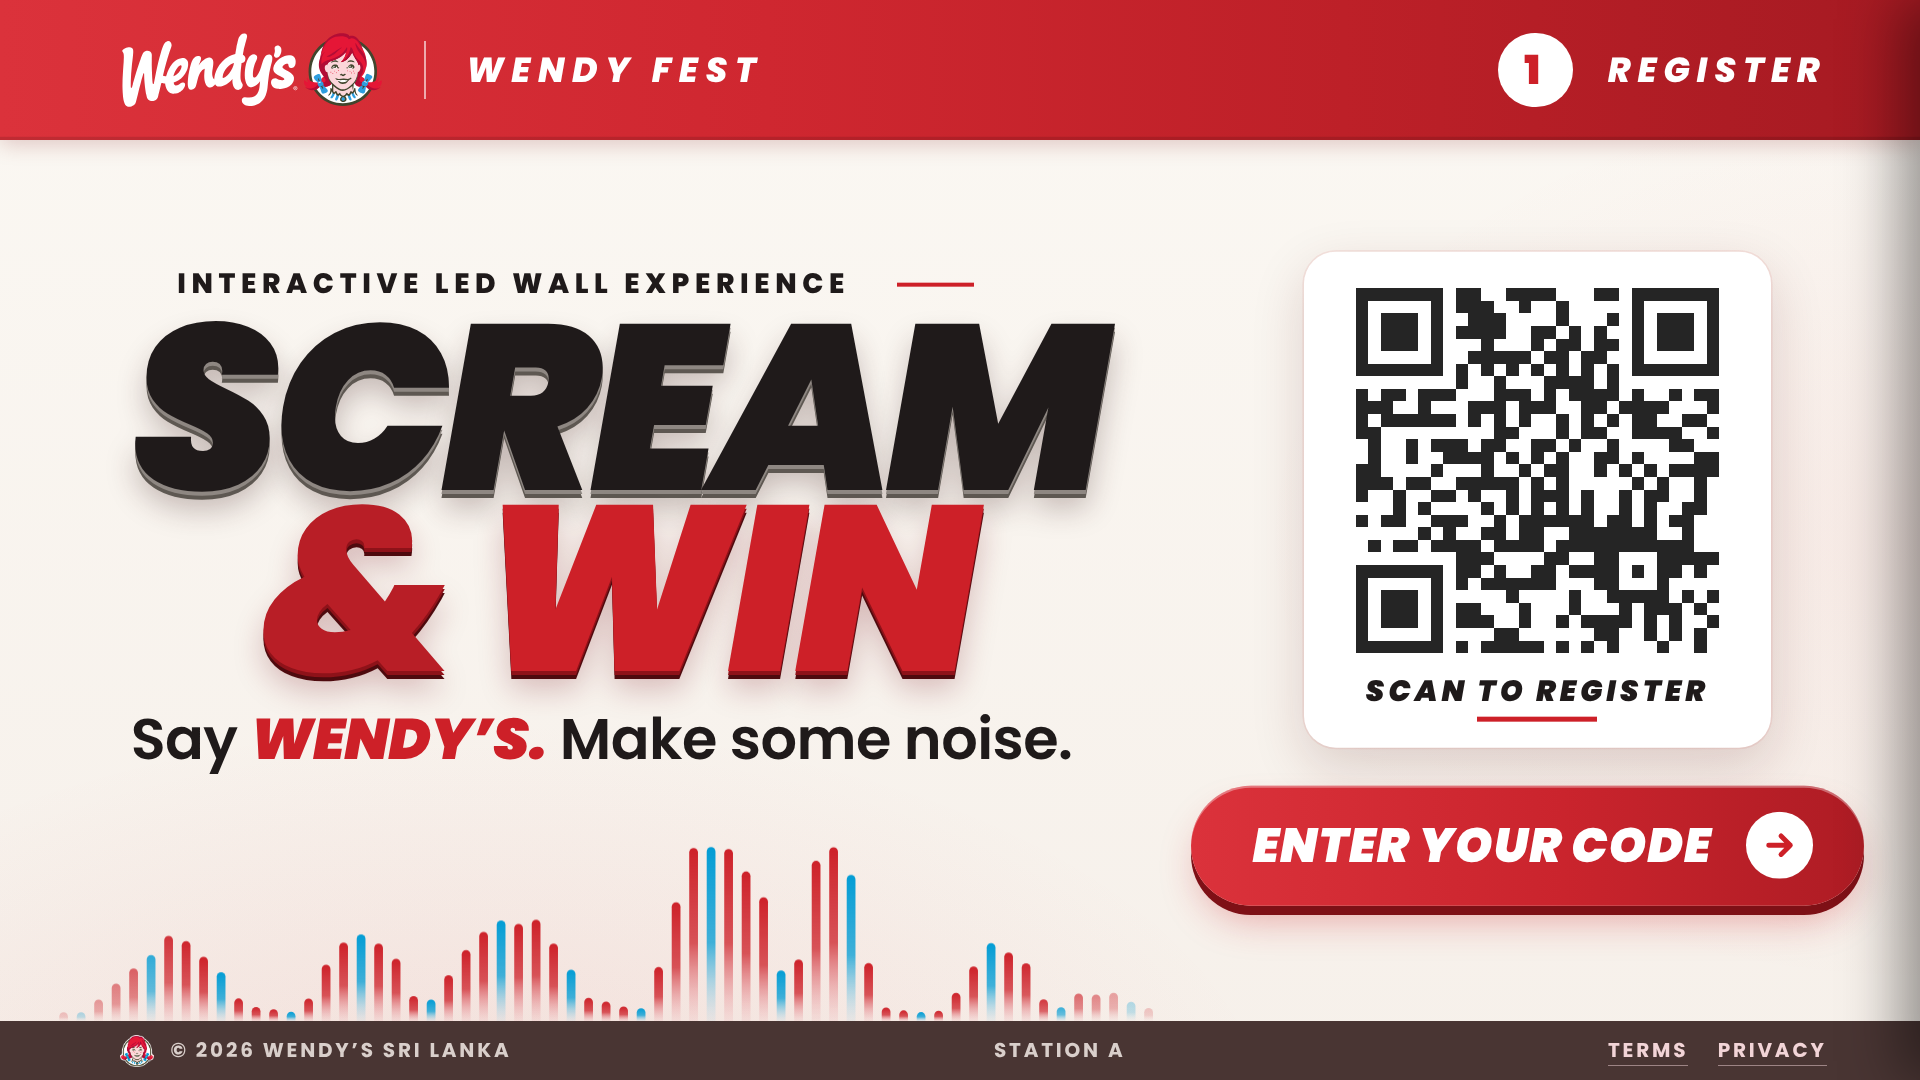
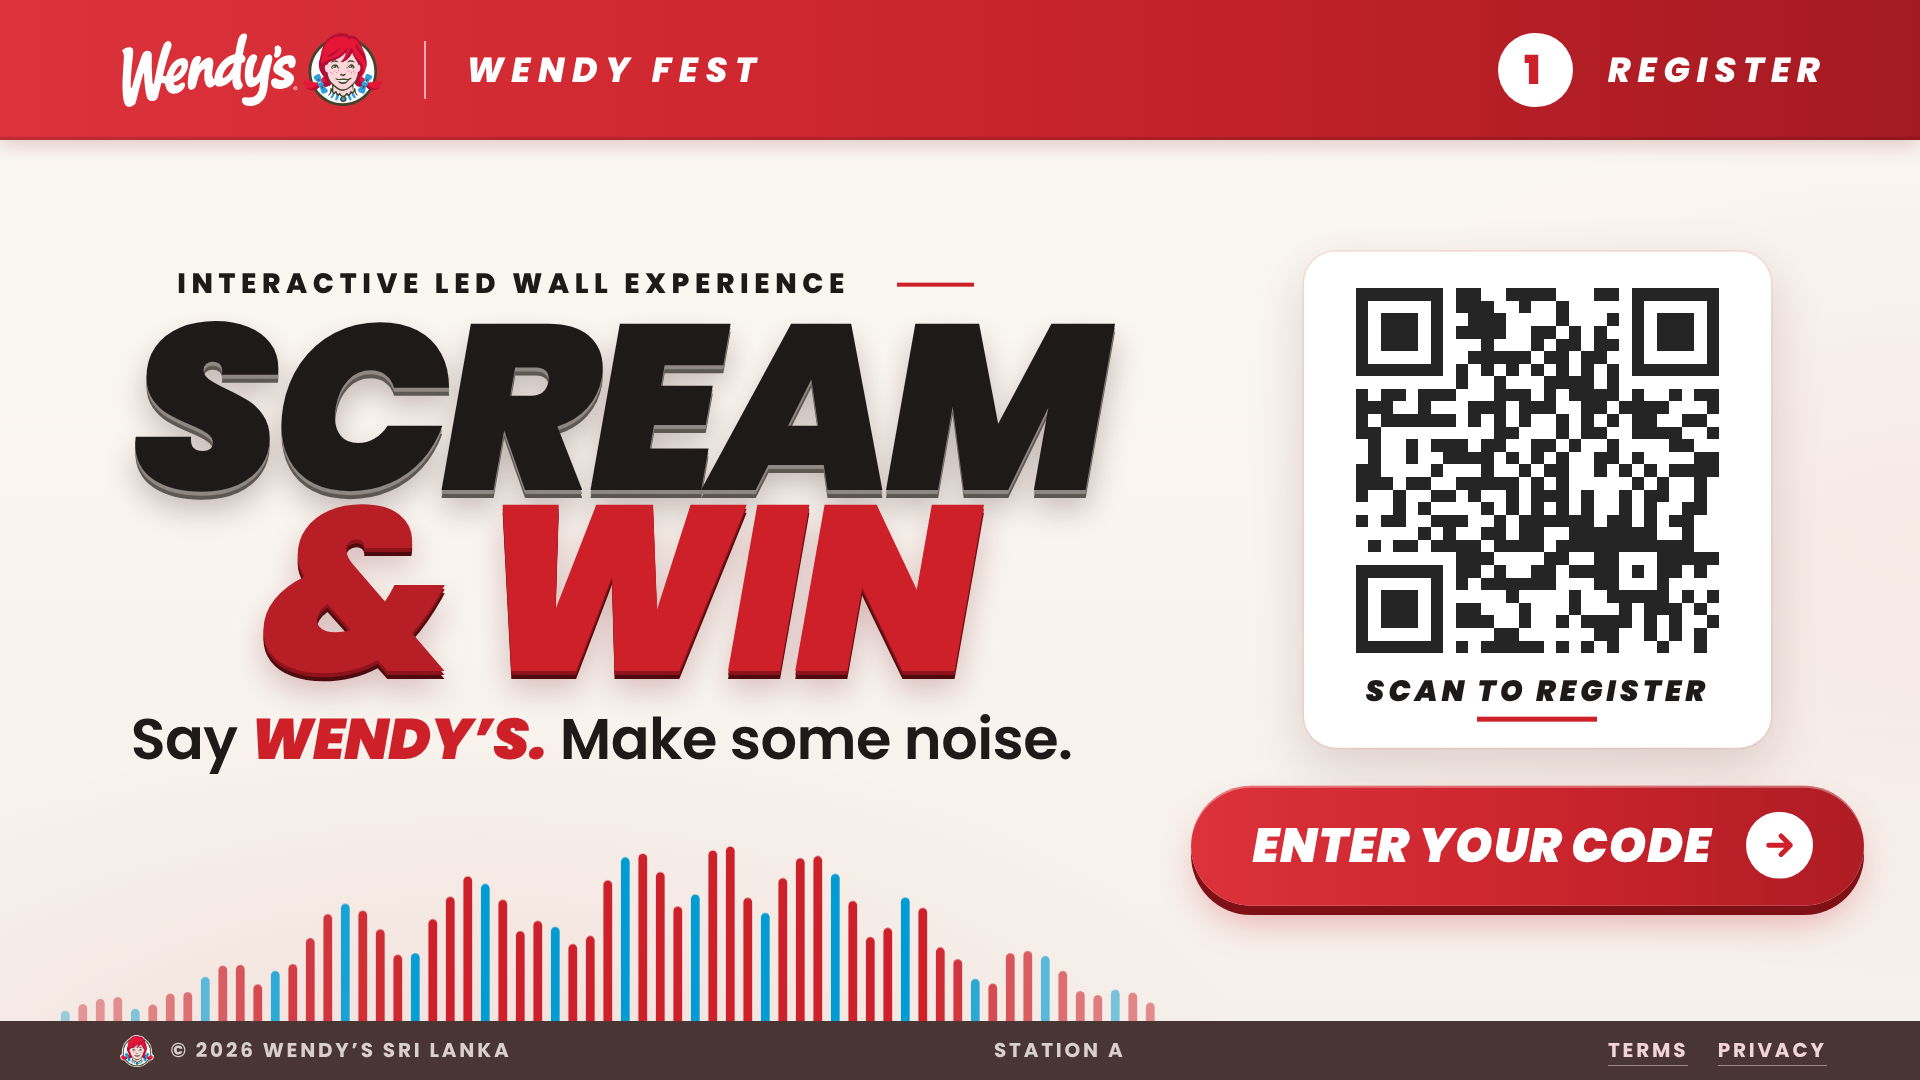
Studio Cream: Register wave back to the option-B hill, ripples drift slowly left to right
Claude-Session: https://claude.ai/code/session_015MHPvZ3kkn8jw5YatKY7r4

Changed region(s): [[0.0312, 0.7944, 0.5938, 0.9472], [0.9688, 0.0, 1.0, 0.9472]]

diff --git a/public/kiosk/scream-cream.html b/public/kiosk/scream-cream.html
@@ -358,38 +358,34 @@ body { margin:0; background:var(--cream); color:var(--ink); font-family:Poppins,
     if (marker) { ctx.fillStyle = "#29C9E0"; ctx.beginPath(); ctx.arc(maxX, (H - maxH) / 2 - 7 * fd, 5 * fd, 0, 7); ctx.fill(); ctx.strokeStyle = "#fff"; ctx.lineWidth = 2 * fd; ctx.stroke(); }
   }
 
-  // Register-screen wave: a scrolling voice trace. Syllables enter on the left and travel right;
-  // with a live mic the guest's own voice scrolls through. Every fourth bar is Wendy's blue.
-  const VOICE = { n: 64, hist: [], count: 0, last: 0, frac: 0, sylLeft: 0, sylLen: 1, amp: 0, gap: 0, step: 70 };
-  for (let i = 0; i < VOICE.n; i++) VOICE.hist.push(.06);
+  // Register-screen wave (option B): one hill of rounded bars, every fourth bar Wendy's blue.
+  // Gentle voice ripples drift slowly left → right through the hill; a live mic feeds them.
+  const VOICE = { n: 64, hist: [], count: 0, last: 0, sylLeft: 0, sylLen: 1, amp: 0, gap: 0, step: 230 };
+  for (let i = 0; i < VOICE.n; i++) { VOICE.hist.push(nextVoiceSample()); VOICE.count++; }
   function nextVoiceSample() {
-    if (analyser) { const lv = dbToPct(currentDb()) / 100; if (lv > .12) return Math.min(1, lv * (.85 + Math.random() * .3)); }
-    if (VOICE.gap > 0) { VOICE.gap--; return .05 + Math.random() * .05; }
+    if (analyser) { const lv = dbToPct(currentDb()) / 100; if (lv > .12) return Math.min(1, .45 + lv * .6); }
+    if (VOICE.gap > 0) { VOICE.gap--; return .35 + Math.random() * .06; }
     if (VOICE.sylLeft <= 0) {
-      if (Math.random() < .3) VOICE.gap = 2 + Math.floor(Math.random() * 3);          // pause between words
-      VOICE.sylLen = 5 + Math.floor(Math.random() * 6); VOICE.sylLeft = VOICE.sylLen; VOICE.amp = .4 + Math.random() * .6;
-      if (VOICE.gap > 0) return .06;
+      if (Math.random() < .2) VOICE.gap = 1 + Math.floor(Math.random() * 2);
+      VOICE.sylLen = 4 + Math.floor(Math.random() * 4); VOICE.sylLeft = VOICE.sylLen; VOICE.amp = .55 + Math.random() * .45;
     }
     const k = (VOICE.sylLen - VOICE.sylLeft + .5) / VOICE.sylLen; VOICE.sylLeft--;
-    return Math.max(.06, VOICE.amp * Math.pow(Math.sin(Math.PI * k), .8) * (.86 + Math.random() * .2));
+    return .4 + .6 * VOICE.amp * Math.sin(Math.PI * k) * (.9 + Math.random() * .1);
   }
   function drawHill(c) {
     if (!c._sized) sizeCanvas(c);
     const ctx = c.getContext("2d"), W = c.width, H = c.height, now = performance.now(); ctx.clearRect(0, 0, W, H);
     if (!VOICE.last) VOICE.last = now;
     while (now - VOICE.last >= VOICE.step) { VOICE.hist.pop(); VOICE.hist.unshift(nextVoiceSample()); VOICE.count++; VOICE.last += VOICE.step; }
-    const frac = (now - VOICE.last) / VOICE.step, n = VOICE.n, gap = W / n, w = gap * .5;
+    const ease = (q) => q * q * (3 - 2 * q), frac = ease((now - VOICE.last) / VOICE.step), n = VOICE.n, gap = W / n, w = gap * .5;
     for (let i = 0; i < n; i++) {
       const x = (i + frac) * gap + gap * .25, u = (x + w / 2) / W;
       if (u < 0 || u > 1) continue;
-      const edge = Math.min(1, u / .14, (1 - u) / .14), ease = edge * edge * (3 - 2 * edge);
-      const bell = .6 + .4 * Math.exp(-Math.pow((u - .55) / .3, 2));
-      const v = VOICE.hist[i], h = Math.max(w, H * .94 * v * bell * (.25 + .75 * ease)), a = .2 + .8 * ease;
+      const env = Math.exp(-Math.pow((u - .58) / .27, 2)) * .95 + Math.exp(-Math.pow((u - .22) / .12, 2)) * .25 + .05;
+      const v = Math.min(1, env * VOICE.hist[i] * 1.12), h = Math.max(w, v * H * .92), a = Math.min(1, .3 + env * 1.2);
       const blue = (VOICE.count - i) % 4 === 0;
-      const top = blue ? `rgba(2,156,212,${a.toFixed(2)})` : `rgba(205,32,40,${a.toFixed(2)})`;
-      const base = blue ? `rgba(150,210,236,${(a * .12).toFixed(2)})` : `rgba(236,150,158,${(a * .12).toFixed(2)})`;
-      const g = ctx.createLinearGradient(0, H - h, 0, H); g.addColorStop(0, top); g.addColorStop(.55, top.replace(/[\d.]+\)$/, (a * .75).toFixed(2) + ")")); g.addColorStop(1, base);
-      ctx.fillStyle = g; ctx.beginPath(); ctx.roundRect(x, H - h, w, h + w, w / 2); ctx.fill();
+      ctx.fillStyle = blue ? `rgba(2,156,212,${a.toFixed(2)})` : `rgba(205,32,40,${a.toFixed(2)})`;
+      ctx.beginPath(); ctx.roundRect(x, H - h, w, h + w, w / 2); ctx.fill();
     }
   }
 
